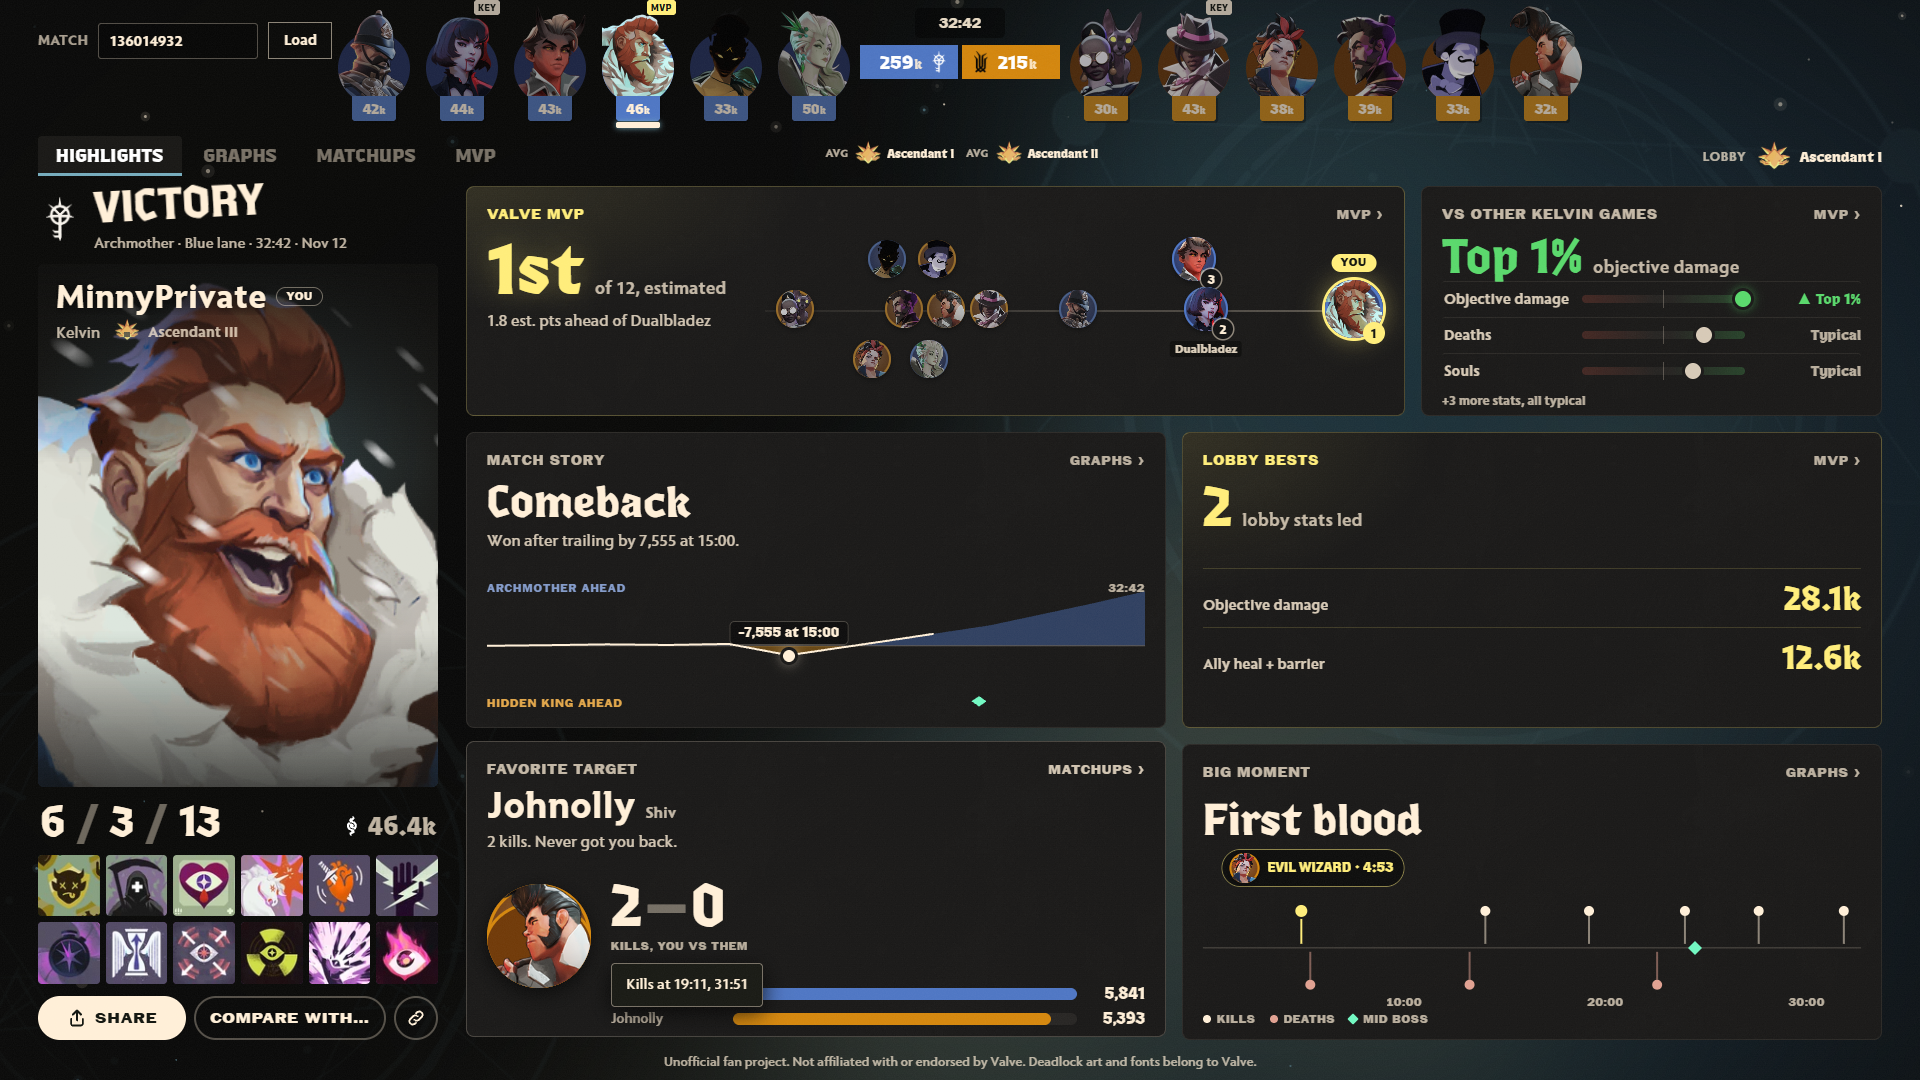
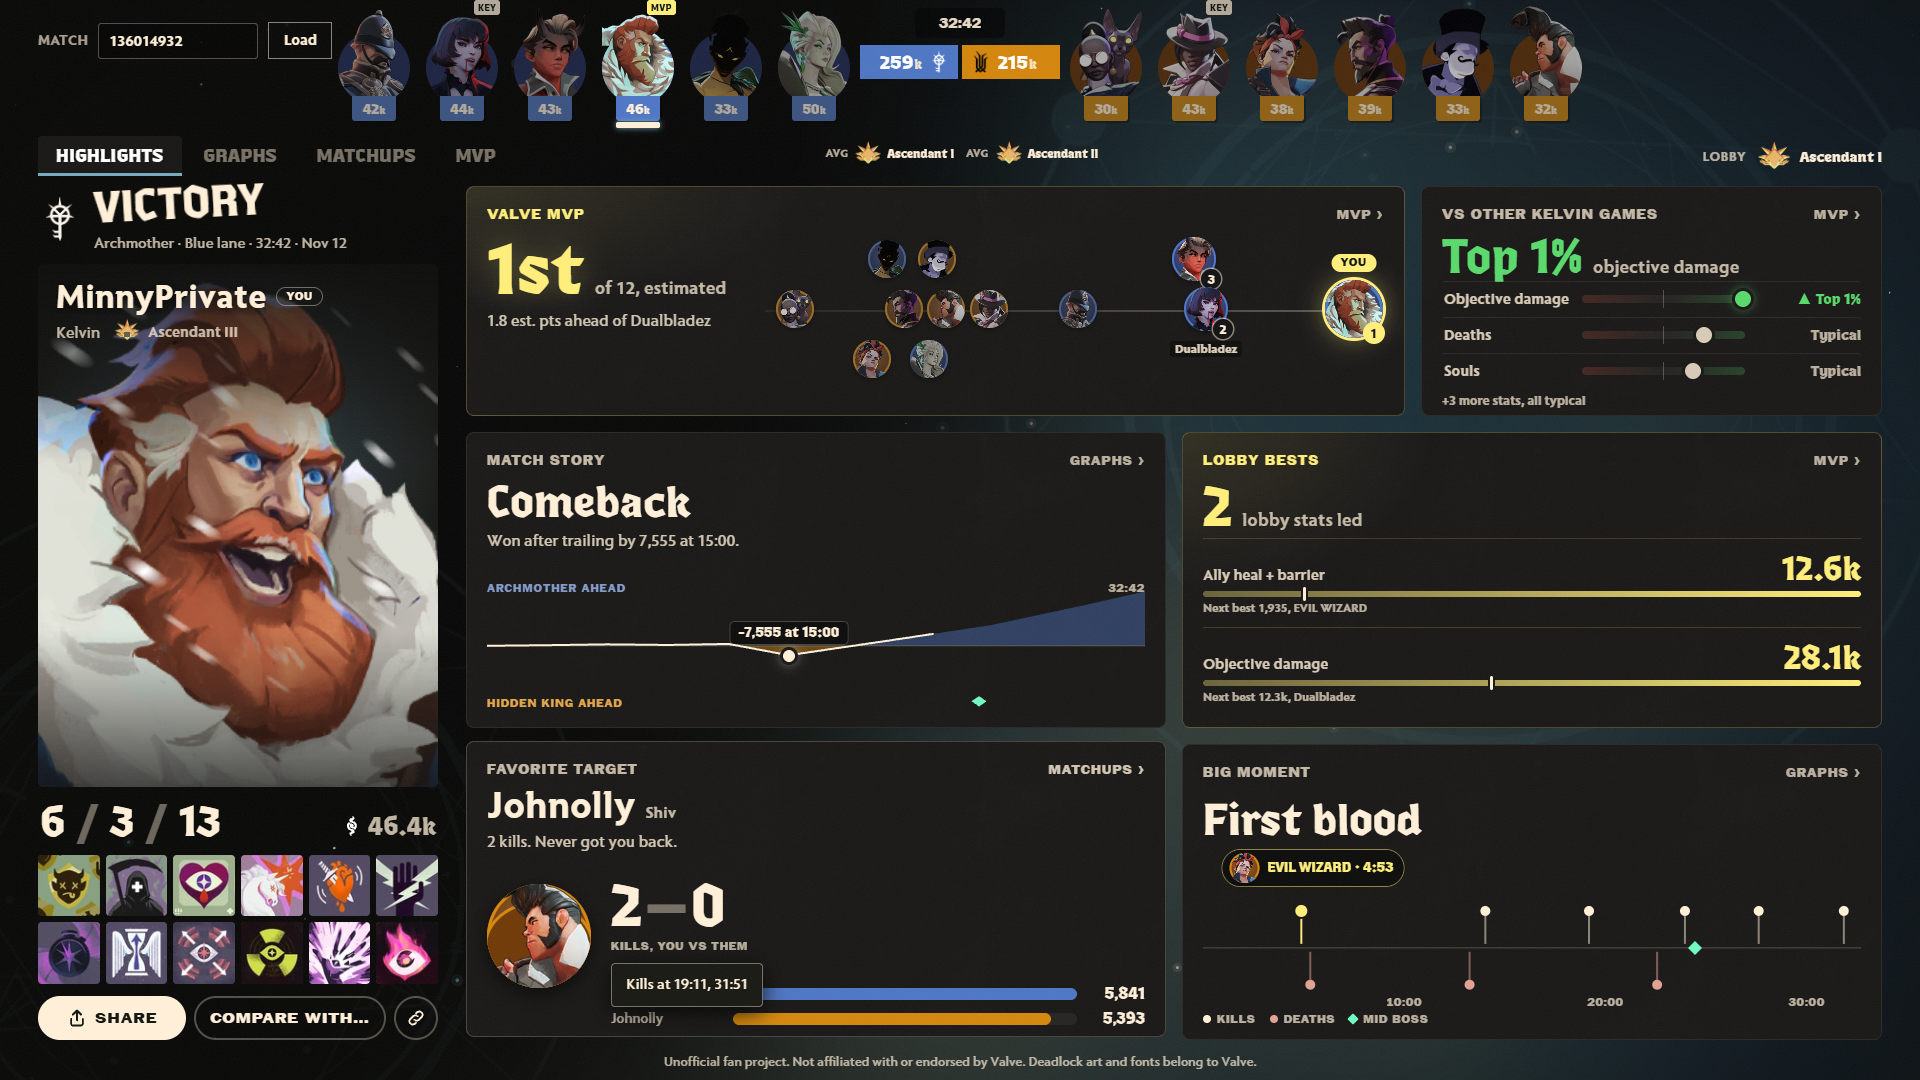
Lobby bests show the margin over the runner-up

Changed region(s): [[0.625, 0.4889, 0.9688, 0.6722]]

diff --git a/summary/summary.js b/summary/summary.js
@@ -513,9 +513,12 @@ window.Summary = (() => {
       ["Damage taken", q => (snap(q).player_damage_taken || 0) + (snap(q).damage_mitigated || 0)],
     ];
     const led = LIST.map(([label, read]) => {
-      const mine = read(p), others = state.players.filter(q => q !== p).map(read);
-      return { label, mine, led: (mine > 0 || label === "Fewest deaths") && others.every(v => v < mine) };
-    }).filter(x => x.led);
+      const mine = read(p), rest = state.players.filter(q => q !== p);
+      const next = rest.reduce((best, q) => read(q) > read(best) ? q : best, rest[0]);
+      // Margin over the runner-up, the size of the lead, so the rows can be ranked and drawn.
+      const margin = label === "Fewest deaths" ? read(next) - mine : mine / Math.max(1, read(next));
+      return { label, mine, next, nextValue: read(next), margin, led: (mine > 0 || label === "Fewest deaths") && rest.every(q => read(q) < mine) };
+    }).filter(x => x.led).sort((a, b) => (b.label !== "Fewest deaths") - (a.label !== "Fewest deaths") || b.margin - a.margin);
     if (!led.length) return null;
     const shown = led.slice(0, 6);
     return {
@@ -523,7 +526,8 @@ window.Summary = (() => {
       kicker: "Lobby bests",
       big: `<b class="hl-big summary-gold">${led.length}</b><span class="hl-of">lobby ${led.length === 1 ? "stat" : "stats"} led</span>`,
       sub: "",
-      visual: `<ul class="hl-best-list${shown.length <= 3 ? " is-single" : ""}">${shown.map(x => `<li><span>${esc(x.label)}</span><b>${x.label === "Fewest deaths" ? -x.mine : fmtStat(x.mine)}</b></li>`).join("")}${led.length > shown.length ? `<li class="hl-best-more" ${explain(led.slice(shown.length).map(x => x.label).join(", ") + ".")}>+${led.length - shown.length} more</li>` : ""}</ul>`,
+      visual: `<ul class="hl-best-list${shown.length <= 3 ? " is-single" : ""}">${shown.map(x => `<li ${explain(`Next best: ${name(x.next)} with ${x.label === "Fewest deaths" ? -x.nextValue : fmtStat(x.nextValue)}.`)}><span>${esc(x.label)}</span><b>${x.label === "Fewest deaths" ? -x.mine : fmtStat(x.mine)}</b>
+        ${x.label === "Fewest deaths" ? "" : `<i class="hl-best-bar"><i style="--w:${(x.nextValue / Math.max(1, x.mine) * 100).toFixed(1)}%"></i></i><small>Next best ${fmtStat(x.nextValue)}, ${esc(name(x.next))}</small>`}</li>`).join("")}${led.length > shown.length ? `<li class="hl-best-more" ${explain(led.slice(shown.length).map(x => x.label).join(", ") + ".")}>+${led.length - shown.length} more</li>` : ""}</ul>`,
       more: "",
       foot: led.length > shown.length ? `+${led.length - shown.length} more` : "",
       interest: led.length >= 2 ? 20 + led.length * 12 : 12, // one lobby best is a footnote, not a card

diff --git a/summary/summary.css b/summary/summary.css
@@ -573,3 +573,9 @@ body:not(.standalone) .hl-tug-side b { font-size: 26px; }
 body:not(.standalone) .hl-duel .hl-coin.big { --size: 88px; }
 body:not(.standalone) .hl-duel-score b { font-size: 52px; }
 .hl-grid > .hl-rival[style*="span 6"] .hl-duel { max-width: 860px; }
+.hl-best-list li { flex-wrap: wrap; row-gap: 6px; cursor: help; }
+.hl-best-bar { position: relative; display: block; flex: 1 0 100%; height: 6px; border-radius: 3px; background: var(--gold); }
+.hl-best-bar i { position: absolute; top: -4px; bottom: -4px; left: var(--w); width: 3px; margin-left: -1px; border-radius: 2px; background: var(--offWhite); box-shadow: 0 0 0 2px #181716; }
+.hl-best-bar { background: linear-gradient(90deg, rgba(255, 237, 121, .35), var(--gold)); }
+.hl-best-list small { flex: 1 0 100%; margin-top: -2px; color: var(--faint); font-size: 12px; font-weight: 600; }
+.hl-best-list:not(.is-single) .hl-best-bar, .hl-best-list:not(.is-single) small { display: none; }
